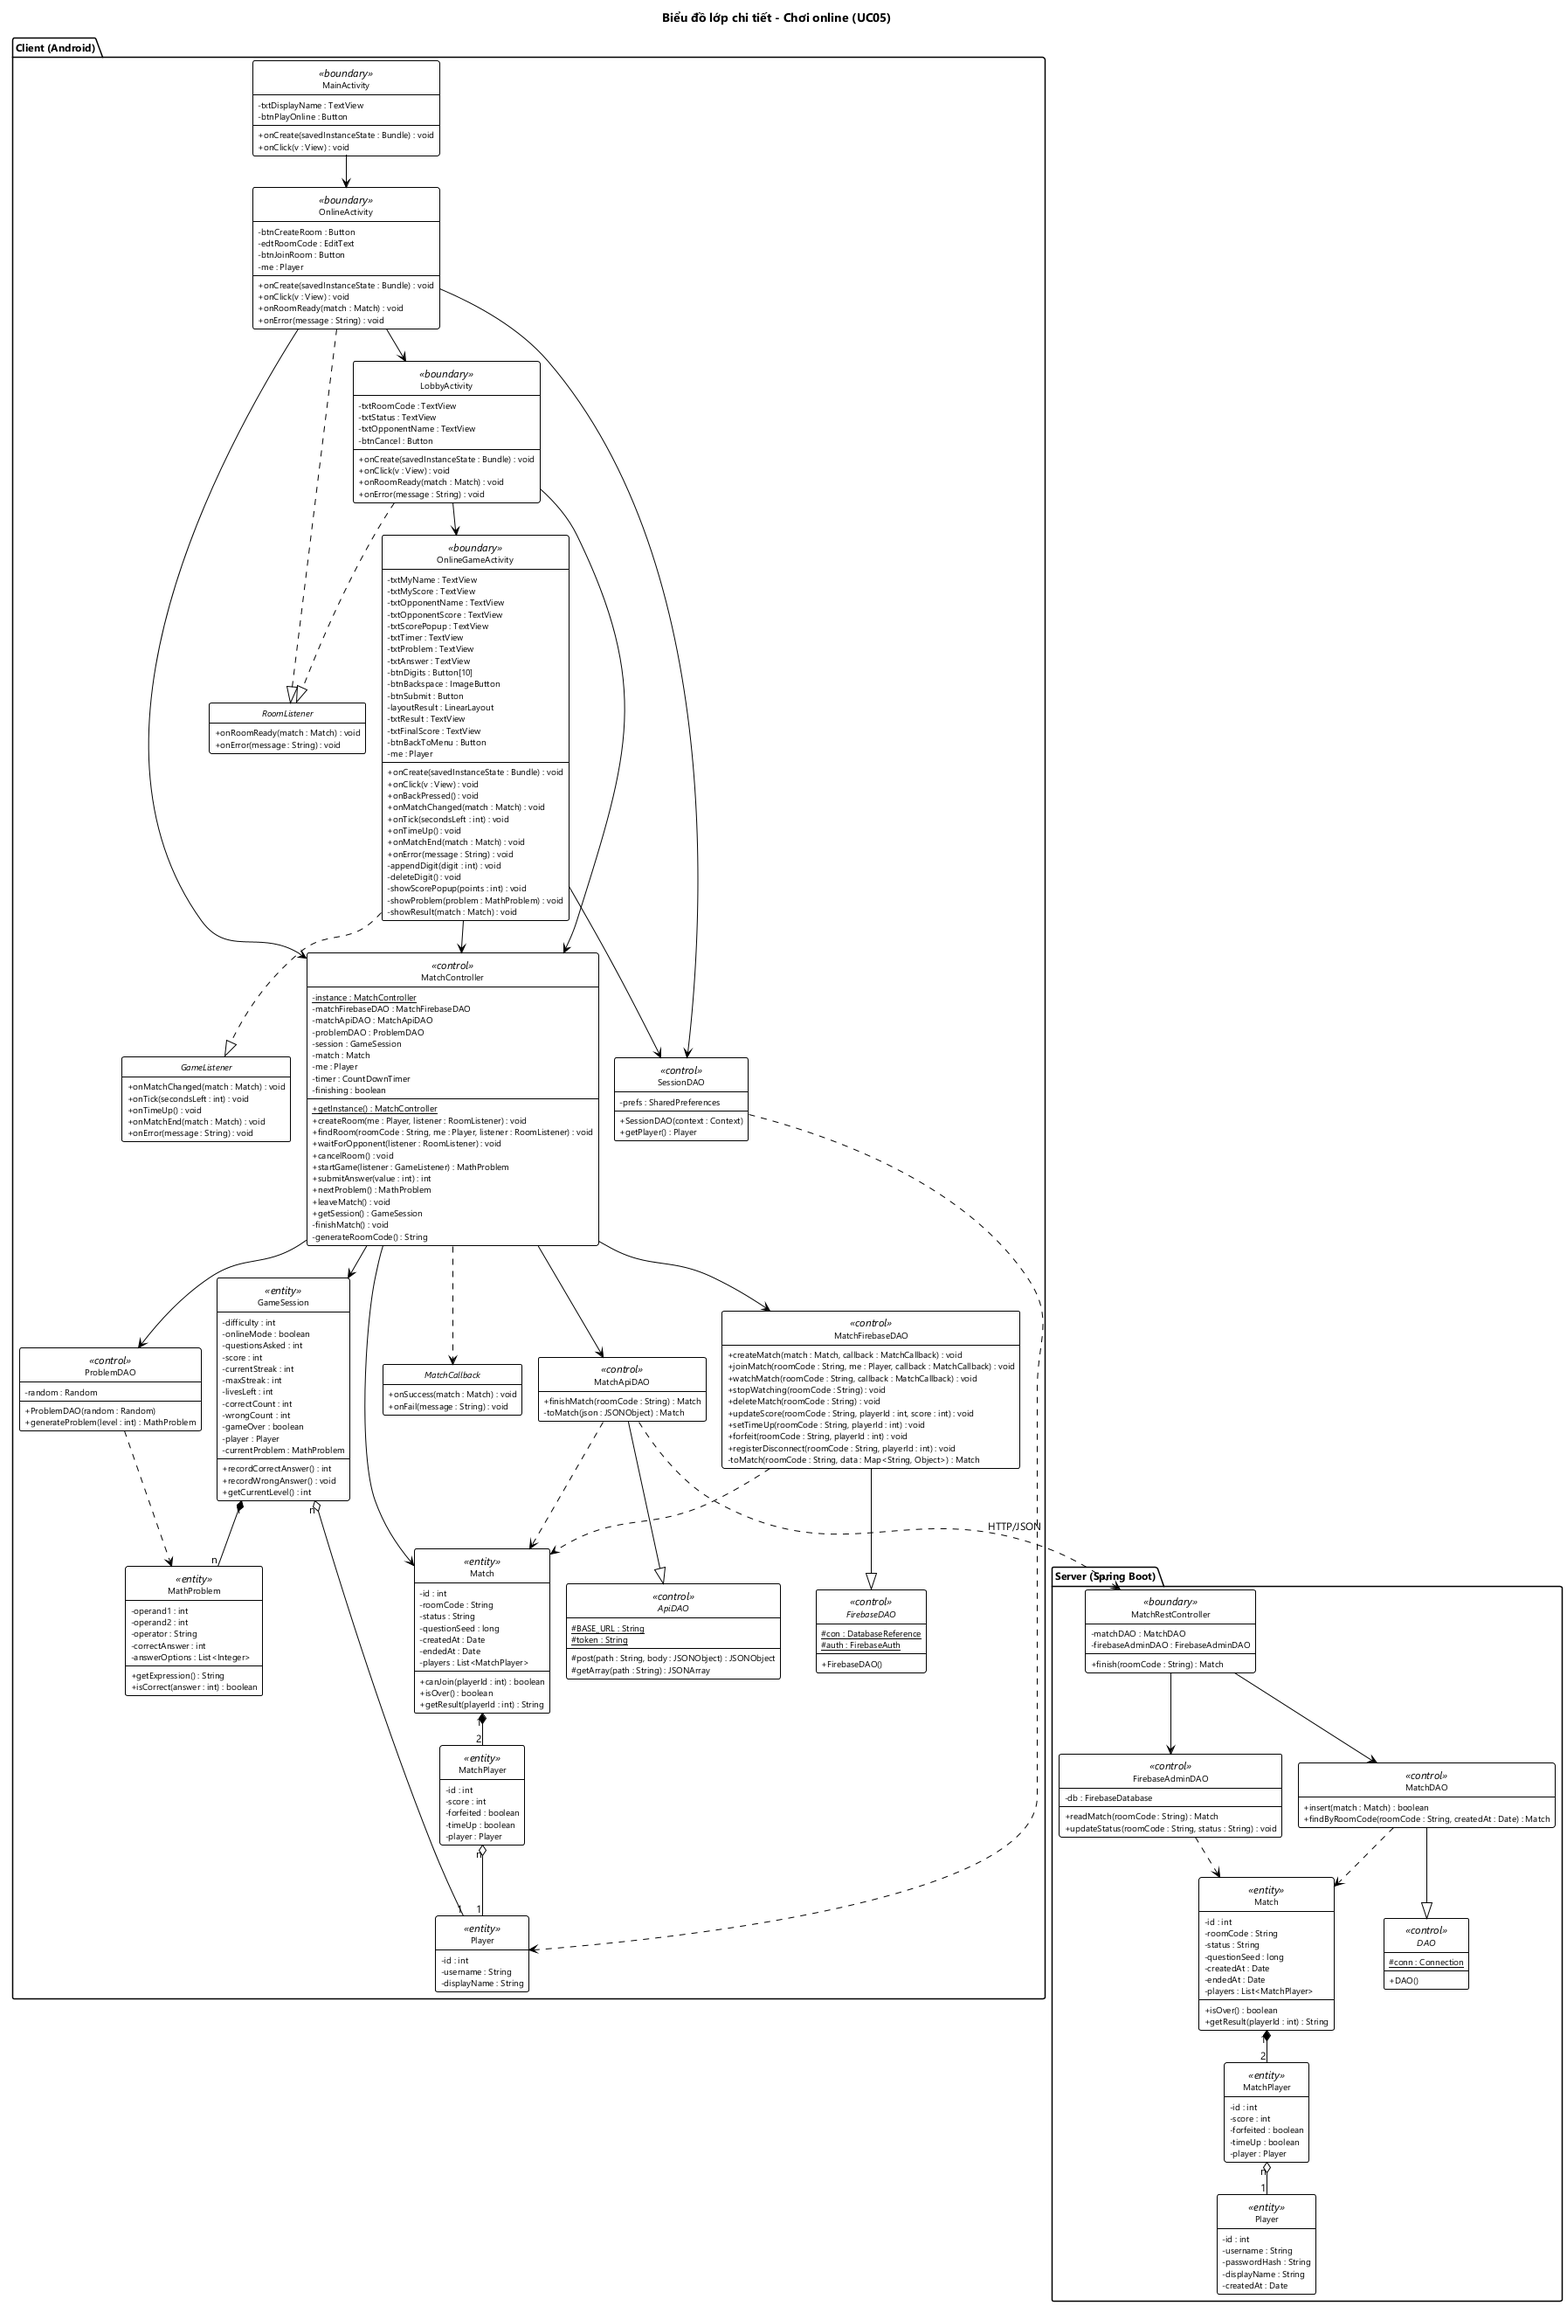
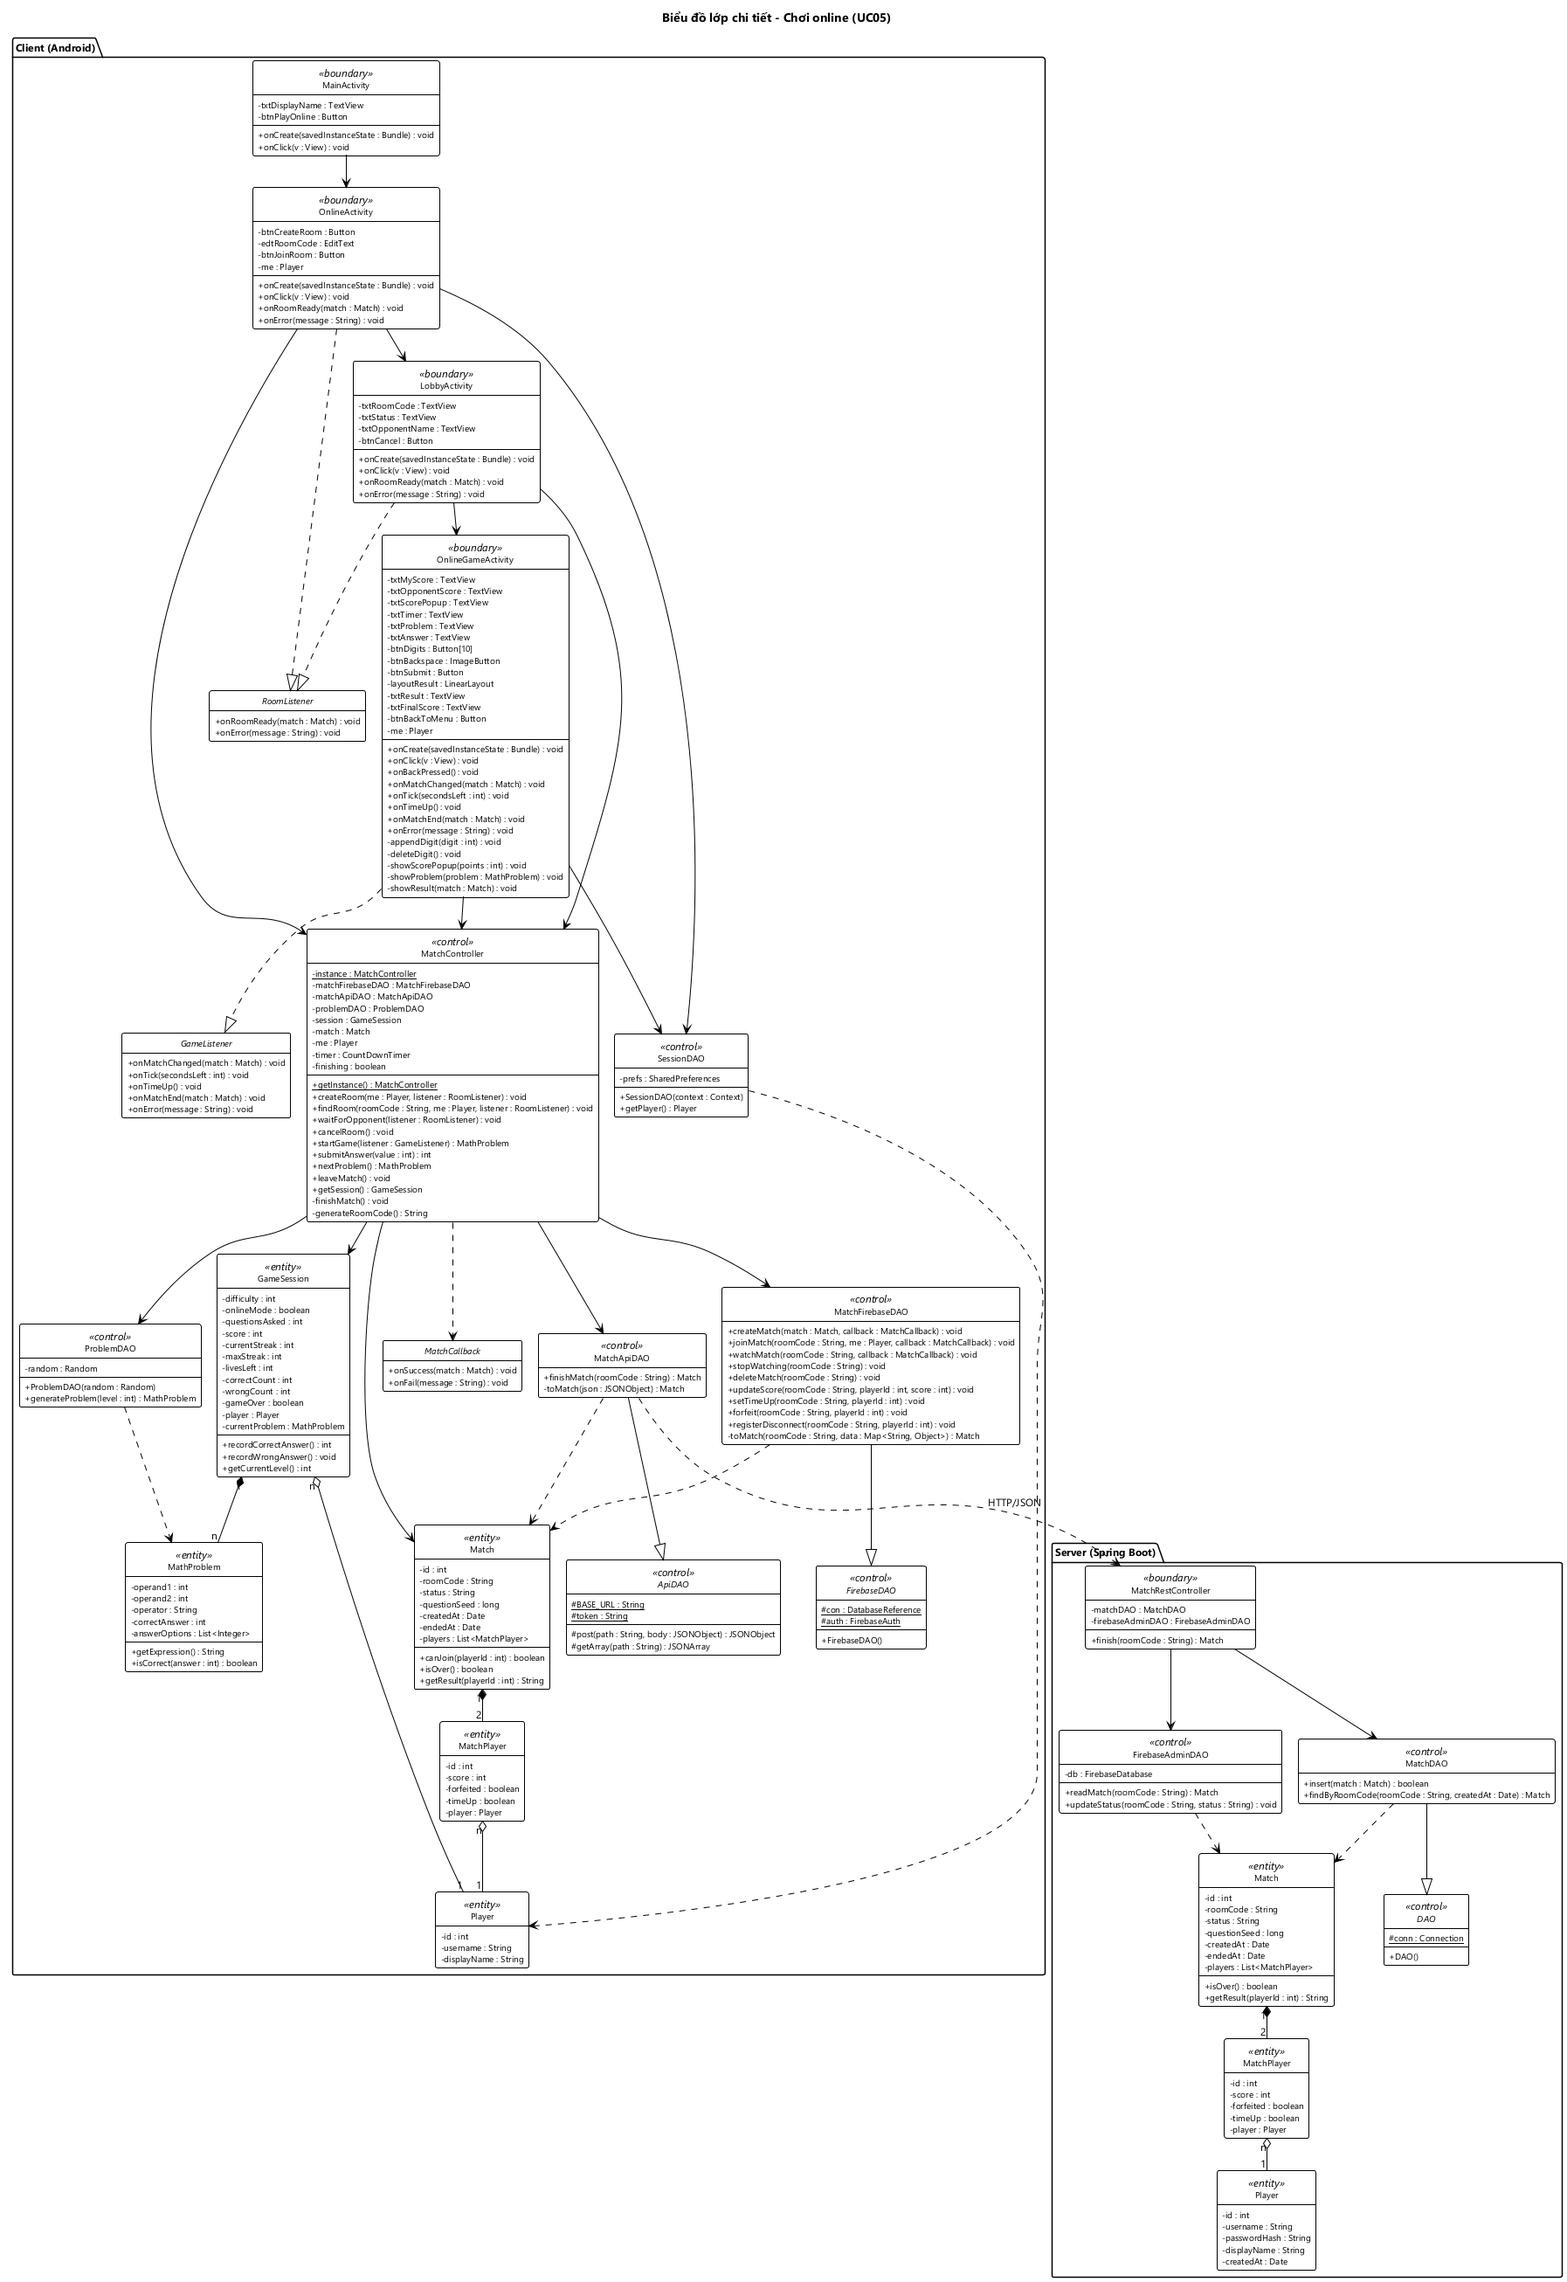
docs(M4-01,M4-03): màn thi đấu online bỏ tên người chơi, chỉ hiện điểm

diff --git a/docs/hung/4-lop-thiet-ke.md b/docs/hung/4-lop-thiet-ke.md
@@ -99,7 +99,7 @@ Chức năng có 3 màn và 1 overlay, đi theo thứ tự `OnlineActivity` → 
 - **Người tạo phòng** đi đủ 4 bước.
 - **Người tìm phòng** nhập mã ở màn đầu tiên. Màn phòng chờ hiện ngay "Trận đấu bắt đầu!" rồi tự sang màn thi đấu sau 2 giây.
 - **Màn thi đấu chia 4 tầng** từ trên xuống:
-  1. Hàng điểm: `HUNG` **36** `VS` 24 `HOANG`. Điểm của mình to hơn và có màu nhấn. Khi trả lời, chữ `+12` (xanh) hoặc `MISS` (đỏ) hiện ngay trên điểm của mình, bay lên khoảng 40dp và mờ dần trong 0,6 giây.
+  1. Hàng điểm: **36** `VS` 24, không hiện tên. Điểm của mình luôn ở bên trái, to hơn và có màu nhấn; tên đối thủ đã hiện ở phòng chờ. Khi trả lời, chữ `+12` (xanh) hoặc `MISS` (đỏ) hiện ngay trên điểm của mình, bay lên khoảng 40dp và mờ dần trong 0,6 giây.
   2. Đồng hồ ở giữa. Hết giờ thì đổi thành "Hết giờ! Đang chờ kết quả...".
   3. Câu hỏi, chữ monospace lớn. Số đang nhập hiện ngay sau dấu `=` thay cho `?`.
   4. Bàn phím số 3x4: `1 2 3 / 4 5 6 / 7 8 9 / ⌫ 0 OK`. Nút cao tối thiểu 64dp. Nút xóa chỉ có biểu tượng ⌫. Số nhập tối đa 3 chữ số (đáp án lớn nhất là 200). Nút OK chỉ bấm được khi đã nhập ít nhất 1 số.
@@ -118,9 +118,9 @@ Chức năng có 3 màn và 1 overlay, đi theo thứ tự `OnlineActivity` → 
 | | `txtStatus` | `TextView` | "Đang chờ đối thủ..." / "Trận đấu bắt đầu!" | `outStatus` |
 | | `txtOpponentName` | `TextView` | "Đối thủ: HOANG" | `outOpponentName` |
 | | `btnCancel` | `Button` | Hủy phòng, ẩn khi đã có đối thủ | `subCancel` |
-| `OnlineGameActivity` | `txtMyName`, `txtMyScore` | `TextView` | Tên, điểm của mình (cỡ chữ lớn hơn, màu nhấn) | `outMyName`, `outMyScore` |
+| `OnlineGameActivity` | `txtMyScore` | `TextView` | Điểm của mình, bên trái (cỡ chữ lớn hơn, màu nhấn) | `outMyScore` |
 | | `txtTimer` | `TextView` | Đồng hồ đếm ngược `00:42`; hết giờ thì hiện "Hết giờ! Đang chờ kết quả..." | `outTimer` |
-| | `txtOpponentName`, `txtOpponentScore` | `TextView` | Tên, điểm đối thủ | `outOpponentName`, `outOpponentScore` |
+| | `txtOpponentScore` | `TextView` | Điểm đối thủ, bên phải | `outOpponentScore` |
 | | `txtProblem` | `TextView` | Câu hỏi `12 + 7 = ?` | `outProblem` |
 | | `txtScorePopup` | `TextView` (ẩn, chạy hiệu ứng bay lên + mờ dần) | "+12" xanh / "MISS" đỏ trên điểm của mình | `outScorePopup` |
 | | `txtAnswer` | `TextView` | Số đang nhập, hiện sau dấu `=` | `inAnswer` |
@@ -128,7 +128,7 @@ Chức năng có 3 màn và 1 overlay, đi theo thứ tự `OnlineActivity` → 
 | | `btnBackspace` | `ImageButton` (icon ⌫, `contentDescription="Xóa"`) | Xóa chữ số cuối | `subBackspace` |
 | | `btnSubmit` | `Button` | OK: nộp đáp án | `subSubmit` |
 | Overlay `layoutResult` | `txtResult` | `TextView` | THẮNG! (xanh) / THUA! (đỏ) / HÒA! (vàng) | `outResult` |
-| | `txtFinalScore` | `TextView` | `HUNG 120 - 96 HOANG` | `outScoreLine` |
+| | `txtFinalScore` | `TextView` | `120 - 96` (mình - đối thủ) | `outScoreLine` |
 | | `btnBackToMenu` | `Button` | Về màn chính | `subBackToMenu` |
 
 Các thông báo ("Không tìm thấy phòng", "Phòng đã đầy", "Đối thủ đã thoát") dùng `Toast`. Hộp thoại "Thoát sẽ bị xử thua?" dùng `AlertDialog`. Cả hai đều không phải thành phần của layout.

diff --git a/docs/hung/2-lop-phan-tich.md b/docs/hung/2-lop-phan-tich.md
@@ -29,8 +29,8 @@ Pha phân tích chưa có kiểu dữ liệu, chưa có DAO, Controller, Activit
 | 1 | Giao diện chính | `MainView` | `outDisplayName`: dòng "Xin chào, HUNG"<br>`subPlayOnline`: nút Chơi online |
 | 2, 7 | Giao diện chơi online | `OnlineView` | `subCreateRoom`: nút Tạo phòng<br>`inRoomCode`: ô nhập mã phòng<br>`subJoinRoom`: nút Vào phòng |
 | 4, 9, 10 | Giao diện phòng chờ | `LobbyView` | `outRoomCode`: mã phòng chữ lớn<br>`outStatus`: dòng trạng thái ("Đang chờ đối thủ...", "Trận đấu bắt đầu!")<br>`outOpponentName`: tên đối thủ<br>`subCancel`: nút Hủy |
-| 11–15 | Giao diện thi đấu | `OnlineGameView` | `outMyName`, `outMyScore`: tên và điểm của mình (nổi bật)<br>`outOpponentName`, `outOpponentScore`: tên và điểm đối thủ<br>`outScorePopup`: chữ "+12" / "MISS" bay lên từ điểm của mình rồi biến mất<br>`outTimer`: đồng hồ đếm ngược, hết giờ thì hiện "Hết giờ! Đang chờ kết quả..."<br>`outProblem`: câu hỏi<br>`inAnswer`: số đang nhập, hiện sau dấu `=`<br>`subDigits`: 10 nút số 0–9<br>`subBackspace`: nút xóa số cuối<br>`subSubmit`: nút OK |
-| 17 | Giao diện kết quả | `MatchResultView` | `outResult`: THẮNG! / THUA! / HÒA!<br>`outScoreLine`: tỉ số "HUNG 120 - 96 HOANG"<br>`subBackToMenu`: nút Về menu |
+| 11–15 | Giao diện thi đấu | `OnlineGameView` | `outMyScore`: điểm của mình (bên trái, nổi bật)<br>`outOpponentScore`: điểm đối thủ (bên phải). Màn này không hiện tên; tên đối thủ đã hiện ở phòng chờ<br>`outScorePopup`: chữ "+12" / "MISS" bay lên từ điểm của mình rồi biến mất<br>`outTimer`: đồng hồ đếm ngược, hết giờ thì hiện "Hết giờ! Đang chờ kết quả..."<br>`outProblem`: câu hỏi<br>`inAnswer`: số đang nhập, hiện sau dấu `=`<br>`subDigits`: 10 nút số 0–9<br>`subBackspace`: nút xóa số cuối<br>`subSubmit`: nút OK |
+| 17 | Giao diện kết quả | `MatchResultView` | `outResult`: THẮNG! / THUA! / HÒA!<br>`outScoreLine`: tỉ số "120 - 96" (mình - đối thủ)<br>`subBackToMenu`: nút Về menu |
 
 Không đề xuất lớp View cho:
 - Hộp thoại "Thoát sẽ bị xử thua?".
@@ -113,6 +113,6 @@ Mọi thành phần giao diện nêu trong kịch bản v1 đều có ở lớp 
 | Nút Chơi online, nút Lịch sử đấu | `MainView.subPlayOnline`, `MainView.subHistory` |
 | Nút Tạo phòng, ô mã phòng, nút Vào phòng | `OnlineView.subCreateRoom`, `inRoomCode`, `subJoinRoom` |
 | Mã phòng, trạng thái, đối thủ, nút Hủy | `LobbyView.outRoomCode`, `outStatus`, `outOpponentName`, `subCancel` |
-| Hàng điểm, chữ bay "+12" / "MISS", đồng hồ, câu hỏi, số đang nhập, bàn phím số, nút xóa, nút OK | `OnlineGameView.outMyName`, `outMyScore`, `outOpponentName`, `outOpponentScore`, `outScorePopup`, `outTimer`, `outProblem`, `inAnswer`, `subDigits`, `subBackspace`, `subSubmit` |
+| Hàng điểm, chữ bay "+12" / "MISS", đồng hồ, câu hỏi, số đang nhập, bàn phím số, nút xóa, nút OK | `OnlineGameView.outMyScore`, `outOpponentScore`, `outScorePopup`, `outTimer`, `outProblem`, `inAnswer`, `subDigits`, `subBackspace`, `subSubmit` |
 | Dòng kết quả, tỉ số, nút Về menu | `MatchResultView.outResult`, `outScoreLine`, `subBackToMenu` |
 | Danh sách trận (hoặc "Chưa có trận nào") | `HistoryView.outListMatch` |

diff --git a/docs/hung/3-kich-ban-v2.md b/docs/hung/3-kich-ban-v2.md
@@ -77,7 +77,7 @@ Quy ước:
 1. `OnlineGameView` gọi phương thức `watchMatch()` của lớp `Match` để theo dõi điểm đối thủ.
 2. `OnlineGameView` gọi phương thức `generateProblem()` của lớp `MathProblem`, dùng mã đồng bộ câu hỏi của trận và mức 1.
 3. Lớp `MathProblem` trả về câu hỏi `12 + 7`.
-4. `OnlineGameView` hiển thị cho Hùng: hàng điểm HUNG `0` VS `0` HOANG, đồng hồ `60`, câu hỏi `12 + 7 = ?` và bàn phím số.
+4. `OnlineGameView` hiển thị cho Hùng: hàng điểm `0` VS `0`, đồng hồ `60`, câu hỏi `12 + 7 = ?` và bàn phím số.
 5. Hùng bấm `1`, `9` rồi nhấn OK trên `OnlineGameView`. Việc bấm số và nút xóa chỉ thay đổi số đang nhập trên giao diện, không gọi thực thể nên không tách thành bước riêng.
 6. `OnlineGameView` gọi phương thức `submitAnswer()` của lớp `GameSession` với đáp án `19`.
 7. Lớp `GameSession` chấm đúng, cộng `12` điểm, trả về điểm mới `12` cho `OnlineGameView`.
@@ -96,7 +96,7 @@ Quy ước:
 18. `OnlineGameView` gọi phương thức `getResult()` của lớp `Match` cho HUNG.
 19. Lớp `Match` trả về `WIN`.
 20. `OnlineGameView` gọi `MatchResultView`.
-21. `MatchResultView` hiển thị cho Hùng "THẮNG!" và tỉ số `HUNG 120 - 96 HOANG`.
+21. `MatchResultView` hiển thị cho Hùng "THẮNG!" và tỉ số `120 - 96`.
 22. Hùng nhấn nút Về menu trên `MatchResultView`.
 23. `MatchResultView` gọi `MainView`.
 24. `MainView` hiển thị cho Hùng.

diff --git a/ISSUES_PLAN.md b/ISSUES_PLAN.md
@@ -456,7 +456,7 @@ matches/{roomCode}                  // mã phòng 6 chữ số
     - Nếu chưa lưu: `MatchDAO.insert(match)` (1 dòng `tblMatch` + 2 dòng `tblMatchPlayer`), `FirebaseAdminDAO.updateStatus(roomCode, "finished")`.
   - **Luật thắng thua là hàm Java thuần (D7):** `Match.getResult(int playerId): String` trả `WIN` / `LOSE` / `DRAW`: ai `forfeited` thì thua; không ai bỏ thì so điểm. Unit test `MatchResultTest` (phía server) cho 5 trường hợp: thắng điểm, thua điểm, hòa, đối thủ bỏ khi đang dẫn điểm, mình bỏ khi đang dẫn điểm; thêm 3 trường hợp `isOver()`: chưa ai hết giờ → `false`, mới 1 người hết giờ → `false`, có người bỏ trận → `true`.
   - **`OnlineGameActivity`** (bố cục chi tiết ở `docs/hung/4-lop-thiet-ke.md` mục 1.1):
-    - Hàng điểm `MÌNH 36 VS 24 ĐỐI THỦ`, điểm của mình nổi bật; chữ `+12` / `MISS` bay lên từ điểm của mình rồi mờ dần.
+    - Hàng điểm `36 VS 24`, không hiện tên; điểm của mình bên trái, nổi bật; chữ `+12` / `MISS` bay lên từ điểm của mình rồi mờ dần.
     - Đồng hồ 60s ở giữa; phép tính kèm số đang nhập.
     - Bàn phím số `0`–`9`, nút xóa chỉ có icon ⌫ (`ImageButton`), nút OK; tối đa 3 chữ số. Online **không** dùng 4 phương án.
     - Overlay THẮNG / THUA / HÒA có tỉ số và nút "Về menu".

diff --git a/docs/hung/5-kich-ban-v3.md b/docs/hung/5-kich-ban-v3.md
@@ -131,7 +131,7 @@ Quy ước:
 11. Lớp `MathProblem` trả đối tượng cho `generateProblem`.
 12. `generateProblem` trả `MathProblem` cho `startGame`; `startGame` lưu nó làm câu hiện tại của `GameSession`.
 13. `startGame` trả `MathProblem` cho `onCreate`.
-14. `OnlineGameActivity` (hàm `showProblem`) hiển thị cho Hùng: hàng điểm HUNG `0` VS `0` HOANG, đồng hồ `60`, `12 + 7 = ?` và bàn phím số.
+14. `OnlineGameActivity` (hàm `showProblem`) hiển thị cho Hùng: hàng điểm `0` VS `0`, đồng hồ `60`, `12 + 7 = ?` và bàn phím số.
 15. Mỗi giây, `CountDownTimer` gọi `onTick(42000)` của `MatchController`.
 16. `MatchController` gọi `onTick(42)` của `OnlineGameActivity`.
 17. `OnlineGameActivity` hiển thị đồng hồ `00:42`.
@@ -193,7 +193,7 @@ Quy ước:
 71. `finishMatch` gọi `onMatchEnd(match)` của `OnlineGameActivity` trong `runOnUiThread`.
 72. `onMatchEnd` gọi `showResult`, và `showResult` gọi `getResult(1)` của `Match`.
 73. `Match` trả về `"WIN"`: không ai bỏ trận, `120 > 96`.
-74. `OnlineGameActivity` hiện overlay `layoutResult`: "THẮNG!" màu xanh, `HUNG 120 - 96 HOANG`.
+74. `OnlineGameActivity` hiện overlay `layoutResult`: "THẮNG!" màu xanh, tỉ số `120 - 96`.
 75. Hùng nhấn nút Về menu.
 76. `onClick` gọi `finish()`, quay về `MainActivity`.
 77. `MainActivity` hiển thị cho Hùng.
